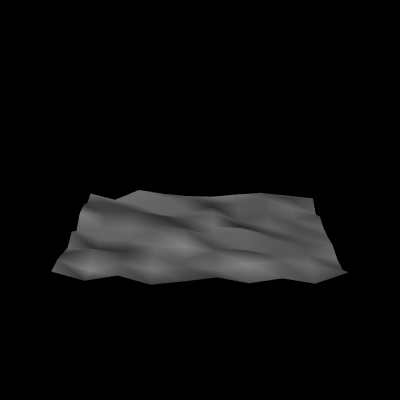
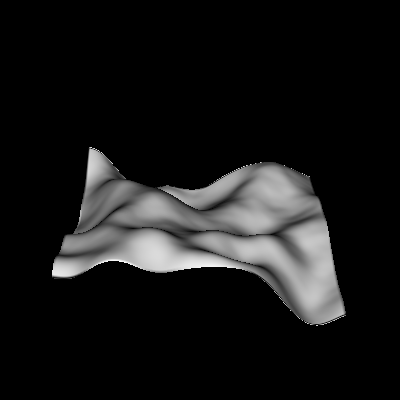
Updated example to use faultline algorithm

Changed region(s): [[0.12, 0.36, 0.87, 0.81]]

diff --git a/README.md b/README.md
@@ -1,5 +1,5 @@
 # Terrain
 
-![Simple example](/examples/simple.png?raw=true "Simple example")
+![Simple example](/examples/simple.png?raw=true "Simple example") ![Simple example](/examples/simple_map.png?raw=true "Simple example")
 
 [Simple example](/examples/simple.jl) using [Rayly.jl](https://github.com/jagot/Rayly.jl).
